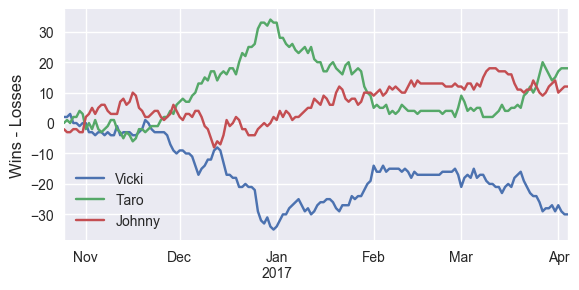
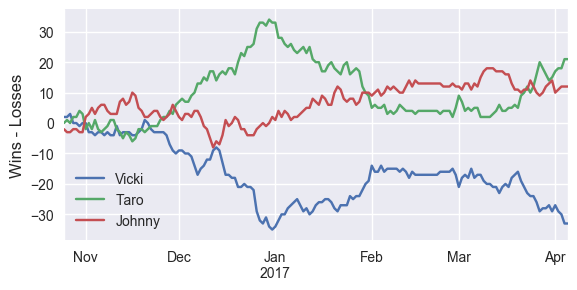
update 4/5

diff --git a/index.html b/index.html
@@ -35,7 +35,7 @@
 <a id="the-bet-is-on" class="anchor" href="#the-bet-is-on" aria-hidden="true"><span aria-hidden="true" class="octicon octicon-link"></span></a>The bet is on.</h1>
 
 <h1>
-<a id="current-winner-of-2016-17-season" class="anchor" href="#current-winner-of-2016-17-season" aria-hidden="true"><span aria-hidden="true" class="octicon octicon-link"></span></a>Current winner of 2016-17 Season (as of 4/4/2017):</h1>
+<a id="current-winner-of-2016-17-season" class="anchor" href="#current-winner-of-2016-17-season" aria-hidden="true"><span aria-hidden="true" class="octicon octicon-link"></span></a>Current winner of 2016-17 Season (as of 4/5/2017):</h1>
 
 <h2>
 <a id="none" class="anchor" href="#none" aria-hidden="true"><span aria-hidden="true" class="octicon octicon-link"></span></a><strong>Taro</strong>
@@ -44,23 +44,23 @@
 <h2>
 <a id="johnny" class="anchor" href="Johnny.html" aria-hidden="true"><span aria-hidden="true" class="octicon octicon-link"></span>Johnny</a></h2>
 
-<p>Wins: 390<br>
-Losses: 378<br>
-Remaining wins available: 44</p>
+<p>Wins: 393<br>
+Losses: 381<br>
+Remaining wins available: 39</p>
 
 <h2>
 <a id="taro" class="anchor" href="Taro.html" aria-hidden="true"><span aria-hidden="true" class="octicon octicon-link"></span>Taro</a></h2>
 
-<p>Wins: 393<br>
-Losses: 375<br>
-Remaining wins available: 48</p>
+<p>Wins: 399<br>
+Losses: 378<br>
+Remaining wins available: 40</p>
 
 <h2>
 <a id="vicki" class="anchor" href="Vicki.html" aria-hidden="true"><span aria-hidden="true" class="octicon octicon-link"></span>Vicki</a></h2>
 
-<p>Wins: 370<br>
-Losses: 400<br>
-Remaining wins available: 44</p>
+<p>Wins: 372<br>
+Losses: 405<br>
+Remaining wins available: 37</p>
 
 <img src='pythoncode/win_percent.png' alt='Winning Percentage Over Time'>
 <h1>

diff --git a/Taro.html b/Taro.html
@@ -35,9 +35,9 @@
 
 <h2>Taro</h2>
 
-<p>Wins: 393<br>
-Losses: 375<br>
-Remaining wins available: 48</p>
+<p>Wins: 399<br>
+Losses: 378<br>
+Remaining wins available: 40</p>
 
 <h2> Current teams </h2>
 <table border="1">
@@ -49,39 +49,39 @@ Remaining wins available: 48</p>
 </tr>
 <tr>
 <td>Knicks</td>
-<td>29</td>
+<td>30</td>
 <td>48</td>
-<td>5</td>
+<td>4</td>
 </tr>
 <tr>
 <td>Nets</td>
-<td>18</td>
+<td>19</td>
 <td>59</td>
-<td>5</td>
+<td>4</td>
 </tr>
 <tr>
 <td>Thunder</td>
-<td>43</td>
+<td>44</td>
 <td>33</td>
-<td>6</td>
+<td>5</td>
 </tr>
 <tr>
 <td>Raptors</td>
 <td>47</td>
-<td>30</td>
-<td>5</td>
+<td>31</td>
+<td>4</td>
 </tr>
 <tr>
 <td>Spurs</td>
-<td>59</td>
+<td>60</td>
 <td>17</td>
-<td>6</td>
+<td>5</td>
 </tr>
 <tr>
 <td>Hornets</td>
 <td>36</td>
-<td>41</td>
-<td>5</td>
+<td>42</td>
+<td>4</td>
 </tr>
 <tr>
 <td>Rockets</td>
@@ -91,21 +91,21 @@ Remaining wins available: 48</p>
 </tr>
 <tr>
 <td>Wizards</td>
-<td>46</td>
+<td>47</td>
 <td>31</td>
-<td>5</td>
+<td>4</td>
 </tr>
 <tr>
 <td>Kings</td>
-<td>30</td>
+<td>31</td>
 <td>47</td>
-<td>5</td>
+<td>4</td>
 </tr>
 <tr>
 <td>Pelicans</td>
 <td>33</td>
-<td>44</td>
-<td>5</td>
+<td>45</td>
+<td>4</td>
 </tr>
 </table>
 

diff --git a/Vicki.html b/Vicki.html
@@ -35,9 +35,9 @@
 
 <h2>Vicki</h2>
 
-<p>Wins: 370<br>
-Losses: 400<br>
-Remaining wins available: 44</p>
+<p>Wins: 372<br>
+Losses: 405<br>
+Remaining wins available: 37</p>
 
 <h2> Current teams </h2>
 <table border="1">
@@ -56,38 +56,38 @@ Remaining wins available: 44</p>
 <tr>
 <td>Mavericks</td>
 <td>32</td>
-<td>44</td>
-<td>6</td>
+<td>45</td>
+<td>5</td>
 </tr>
 <tr>
 <td>Trail Blazers</td>
 <td>38</td>
-<td>39</td>
-<td>5</td>
+<td>40</td>
+<td>4</td>
 </tr>
 <tr>
 <td>Cavaliers</td>
-<td>49</td>
+<td>50</td>
 <td>27</td>
-<td>6</td>
+<td>5</td>
 </tr>
 <tr>
 <td>Bulls</td>
 <td>38</td>
-<td>39</td>
-<td>5</td>
+<td>40</td>
+<td>4</td>
 </tr>
 <tr>
 <td>76ers</td>
 <td>28</td>
-<td>49</td>
-<td>5</td>
+<td>50</td>
+<td>4</td>
 </tr>
 <tr>
 <td>Grizzlies</td>
 <td>42</td>
-<td>35</td>
-<td>5</td>
+<td>36</td>
+<td>4</td>
 </tr>
 <tr>
 <td>Clippers</td>
@@ -103,9 +103,9 @@ Remaining wins available: 44</p>
 </tr>
 <tr>
 <td>Pacers</td>
-<td>37</td>
+<td>38</td>
 <td>40</td>
-<td>5</td>
+<td>4</td>
 </tr>
 </table>
 

diff --git a/Johnny.html b/Johnny.html
@@ -35,9 +35,9 @@
 
 <h2>Johnny</h2>
 
-<p>Wins: 390<br>
-Losses: 378<br>
-Remaining wins available: 44</p>
+<p>Wins: 393<br>
+Losses: 381<br>
+Remaining wins available: 39</p>
 
 <h2> Current teams </h2>
 <table border="1">
@@ -50,20 +50,20 @@ Remaining wins available: 44</p>
 <tr>
 <td>Bucks</td>
 <td>40</td>
-<td>37</td>
-<td>5</td>
+<td>38</td>
+<td>4</td>
 </tr>
 <tr>
 <td>Warriors</td>
-<td>63</td>
+<td>64</td>
 <td>14</td>
-<td>5</td>
+<td>4</td>
 </tr>
 <tr>
 <td>Timberwolves</td>
 <td>31</td>
-<td>45</td>
-<td>6</td>
+<td>46</td>
+<td>5</td>
 </tr>
 <tr>
 <td>Hawks</td>
@@ -85,15 +85,15 @@ Remaining wins available: 44</p>
 </tr>
 <tr>
 <td>Nuggets</td>
-<td>36</td>
+<td>37</td>
 <td>40</td>
-<td>6</td>
+<td>5</td>
 </tr>
 <tr>
 <td>Jazz</td>
-<td>47</td>
+<td>48</td>
 <td>30</td>
-<td>5</td>
+<td>4</td>
 </tr>
 <tr>
 <td>Lakers</td>
@@ -104,8 +104,8 @@ Remaining wins available: 44</p>
 <tr>
 <td>Magic</td>
 <td>27</td>
-<td>50</td>
-<td>5</td>
+<td>51</td>
+<td>4</td>
 </tr>
 </table>
 
